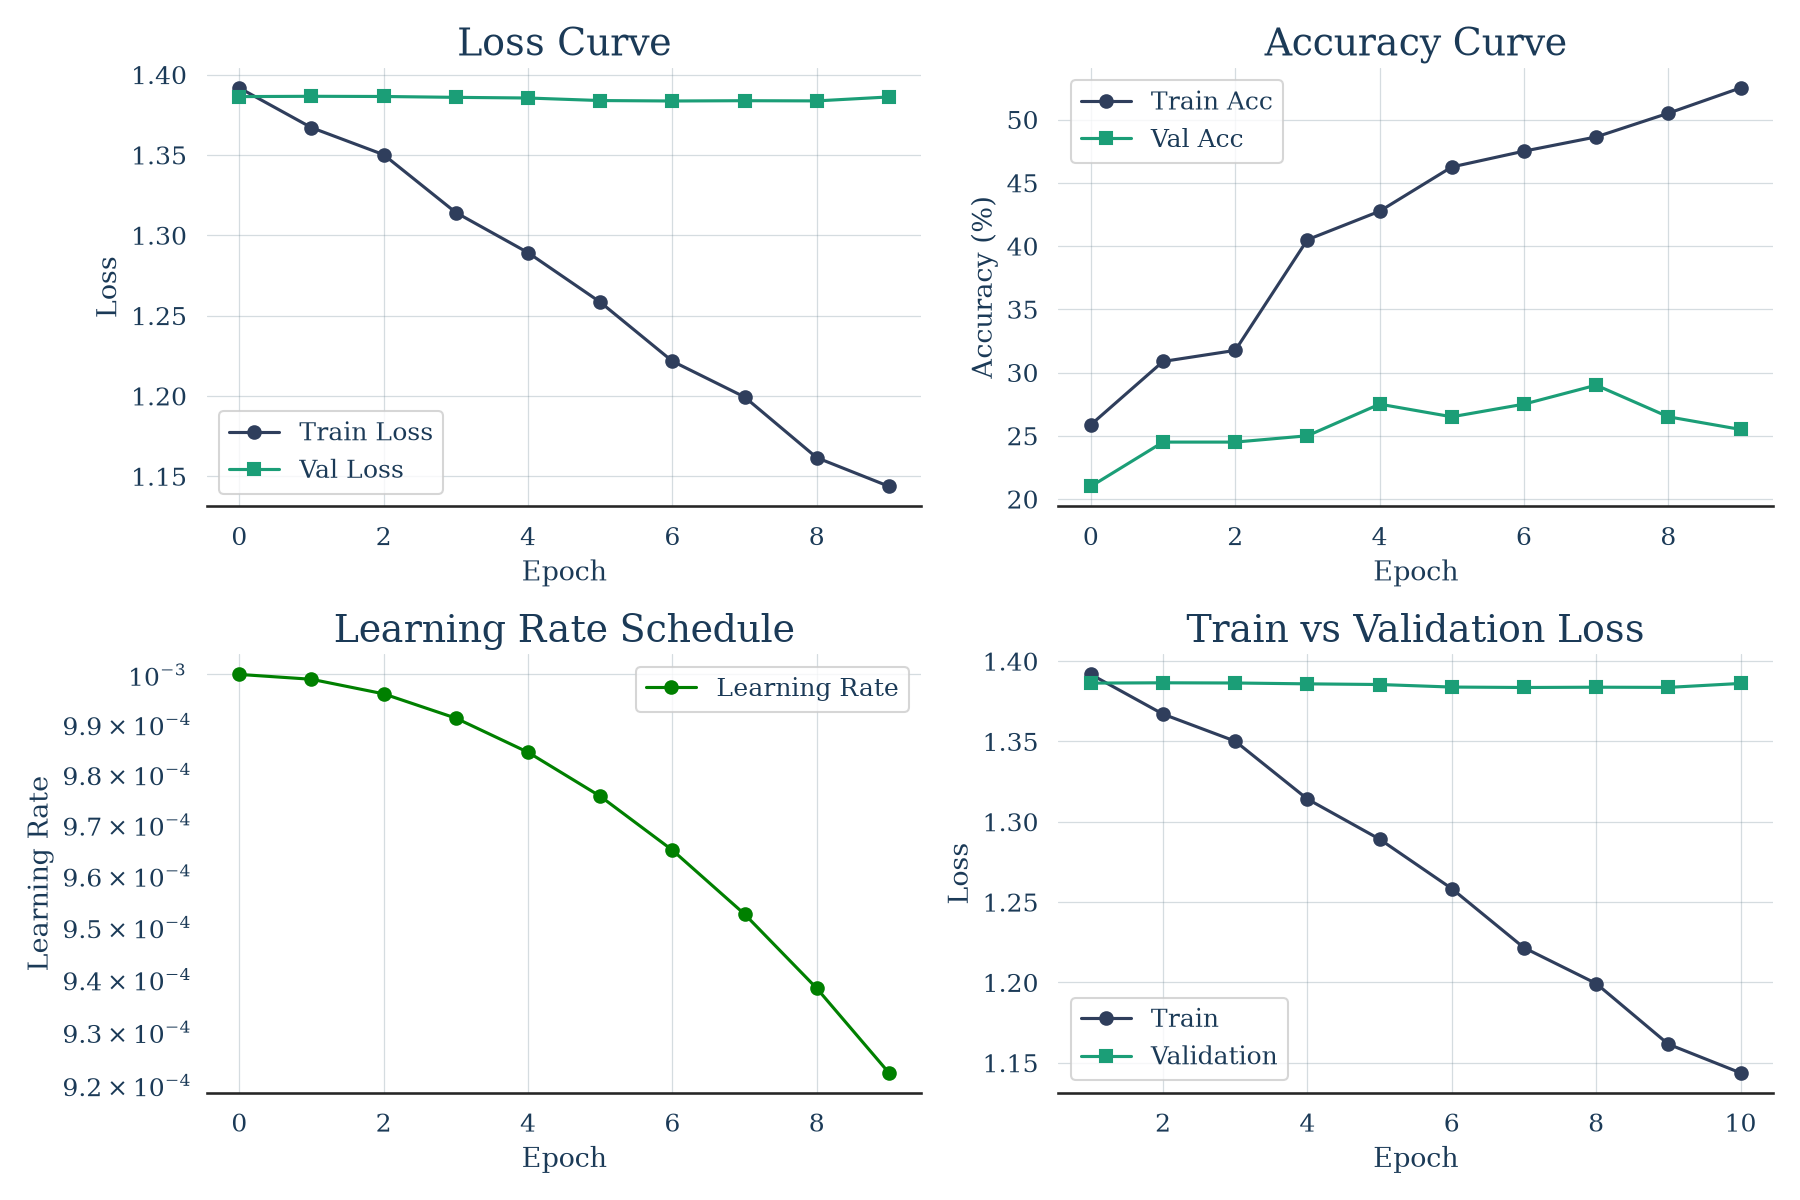
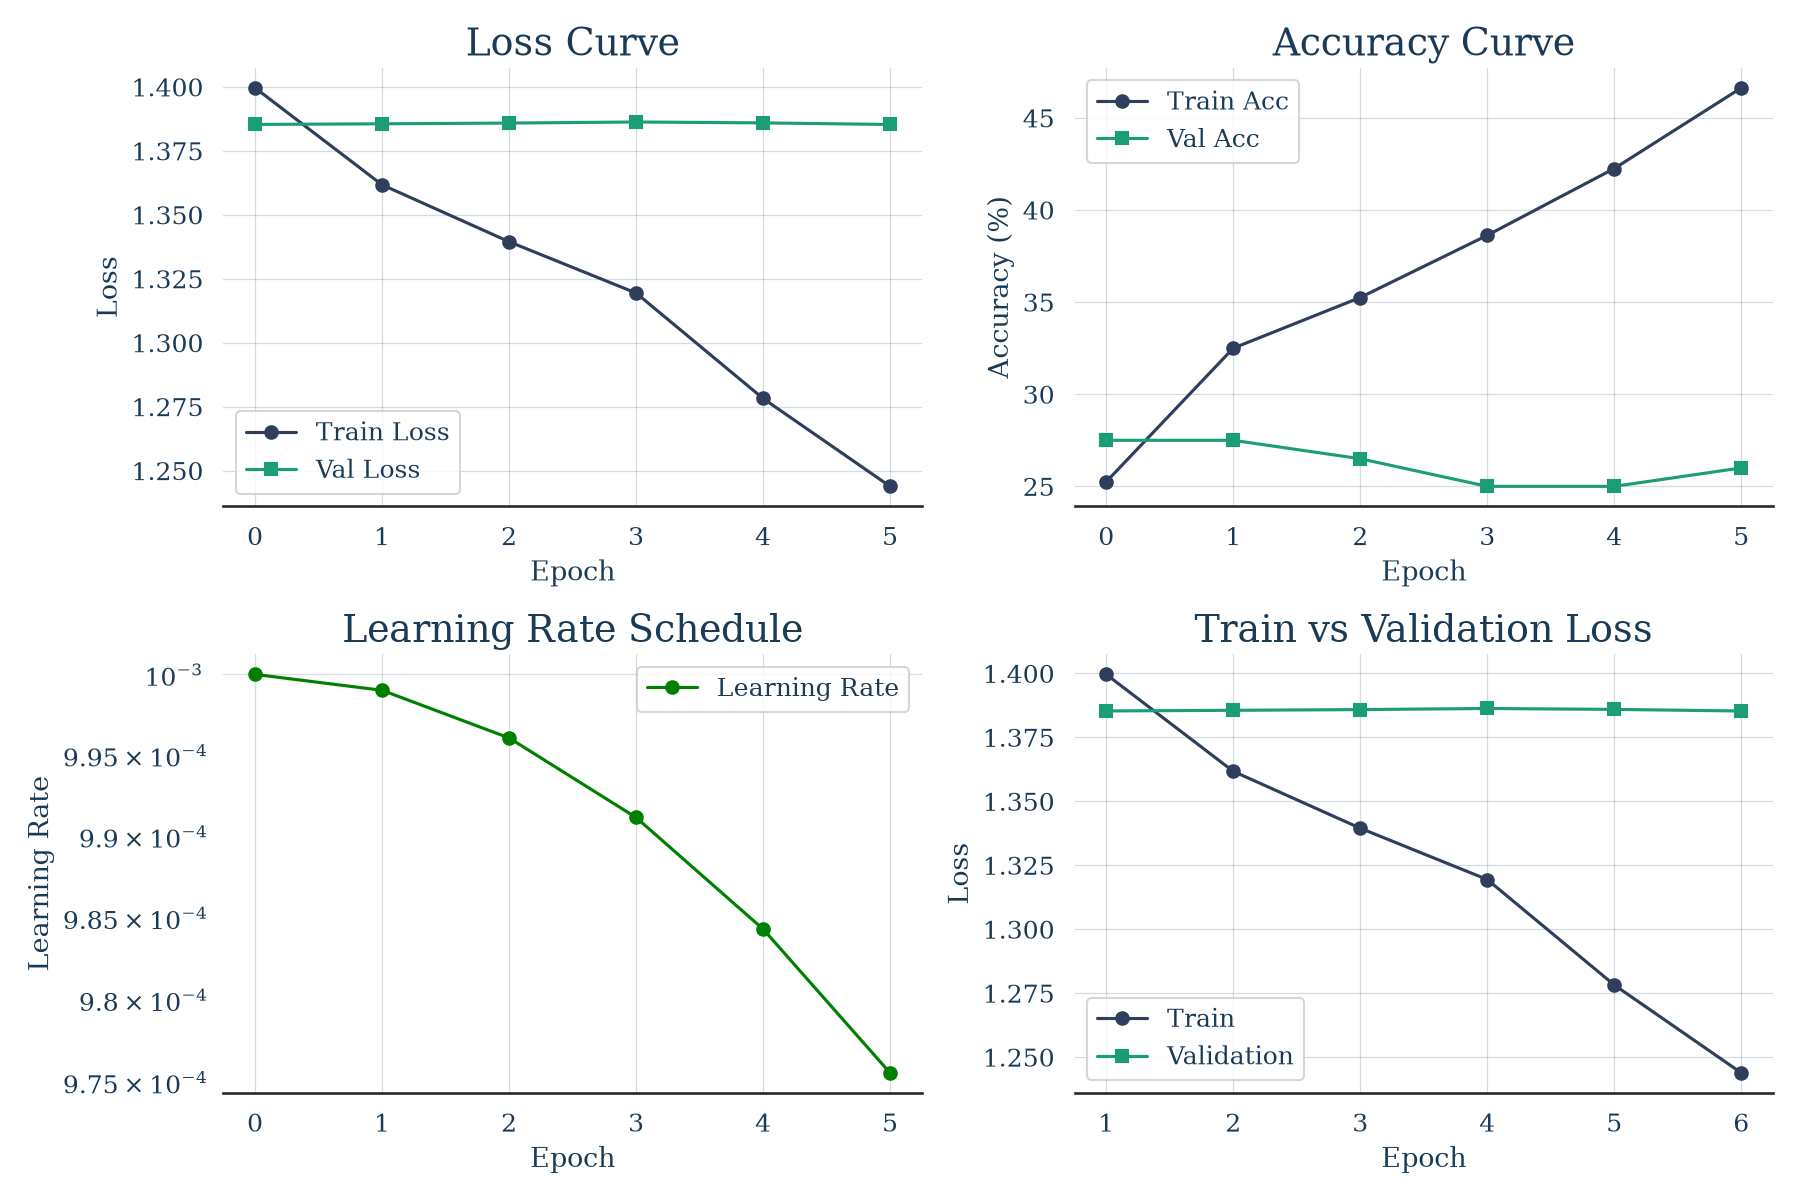
refactor(05_training_loop.py): 完善训练脚本注释与设备选择逻辑
1. 修正张量注释的表述错误，更新设备选择逻辑支持MPS
2. 为损失函数、优化器等组件添加中文注释说明
3. 补充模型输出形状与CrossEntropyLoss使用说明
4. 为评估指标添加详细注释，优化代码可读性
5. 更新EEGClassifier参数传递注释

diff --git a/05_training_loop.py b/05_training_loop.py
@@ -35,8 +35,8 @@ n_times = 1000 # time steps
 n_classes = 4 # 0, 1, 2, 3
 
 # 生成随机数据
-X = torch.randn(n_samples, n_channels, n_times) # (batch, channels, time)
-y = torch.randint(0, n_classes, (n_samples,)) # (batch,)
+X = torch.randn(n_samples, n_channels, n_times) # (samples, channels, time)
+y = torch.randint(0, n_classes, (n_samples,)) # (samples,)
 
 # 划分训练集和验证集
 n_train = int(0.8 * n_samples)
@@ -71,7 +71,8 @@ model = EEGNet(
     F2=16,
     D=2,
     kernel_length=125,
-)
+) # output: (samples, n_classes)
+# braindecode 的 EEGNet 输出的是 softmax 之前的得分（logits）
 
 print(f"模型: {type(model).__name__}")
 print(f"参数量: {sum(p.numel() for p in model.parameters()):,}")
@@ -83,15 +84,18 @@ print("\n3. 损失函数和优化器")
 print("-" * 40)
 
 # 损失函数
-criterion = nn.CrossEntropyLoss()
+# 中文名称：交叉熵损失函数
+criterion = nn.CrossEntropyLoss() 
 print(f"损失函数: {criterion}")
 
 # 优化器
-optimizer = torch.optim.AdamW(model.parameters(), lr=0.001, weight_decay=0.01)
+# 中文名称：AdamW 优化器
+optimizer = torch.optim.AdamW(model.parameters(), lr=0.001, weight_decay=0.01) 
 print(f"优化器: {optimizer}")
 
 # 学习率调度器
-scheduler = torch.optim.lr_scheduler.CosineAnnealingLR(optimizer, T_max=50, eta_min=1e-6)
+# 中文名称：余弦退火学习率调度器
+scheduler = torch.optim.lr_scheduler.CosineAnnealingLR(optimizer, T_max=50, eta_min=1e-6) 
 print(f"学习率调度器: CosineAnnealingLR")
 
 # ============================================================
@@ -113,7 +117,10 @@ def train_epoch(model, loader, criterion, optimizer, device):
         y_batch = y_batch.to(device)
 
         # 前向传播
+        # braindecode 的 EEGNet 输出的是 softmax 之前的得分（logits）
+        # shape: (samples, n_classes)
         outputs = model(X_batch)
+        # PyTorch 的 CrossEntropyLoss 内部已经包含了 log_softmax ，所以它接收的是 logits
         loss = criterion(outputs, y_batch)
 
         # 反向传播
@@ -123,6 +130,7 @@ def train_epoch(model, loader, criterion, optimizer, device):
 
         # 统计
         total_loss += loss.item() * X_batch.size(0)
+        # 丢弃最大值本身（不用），保留最大值的索引，即预测的类别
         _, predicted = outputs.max(1)
         total += y_batch.size(0)
         correct += predicted.eq(y_batch).sum().item()
@@ -164,7 +172,13 @@ print("\n5. 完整训练流程")
 print("-" * 40)
 
 # 设备选择
-device = torch.device("cuda" if torch.cuda.is_available() else "cpu")
+# 设备选择：优先使用 CUDA，其次使用 MPS，最后使用 CPU
+if torch.cuda.is_available():
+    device = torch.device("cuda")
+elif torch.backends.mps.is_available() and torch.backends.mps.is_built():
+    device = torch.device("mps")
+else:
+    device = torch.device("cpu")
 model = model.to(device)
 print(f"使用设备: {device}")
 
@@ -286,6 +300,8 @@ plt.savefig("training_history.png", dpi=150)
 print("训练历史图已保存到: training_history.png")
 plt.close()
 
+
+
 # ============================================================
 # 7. 使用 braindecode 的 EEGClassifier
 # ============================================================
@@ -298,17 +314,18 @@ from braindecode.classifier import EEGClassifier
 # 它封装了训练循环，使用更简洁
 
 # 创建 EEGClassifier
+# <组件名>__<参数名> 用于传递模型参数
 clf = EEGClassifier(
     module=EEGNet,
-    module__n_chans=n_channels,
-    module__n_times=n_times,
-    module__n_outputs=n_classes,
+    module__n_chans=n_channels, # 传给 EEGNet(n_chans=22)
+    module__n_times=n_times, # 传给 EEGNet(n_times=1000)
+    module__n_outputs=n_classes, # 传给 EEGNet(n_outputs=4)
     max_epochs=5,
     batch_size=64,
     lr=0.001,
     device=device,
     optimizer=torch.optim.AdamW,
-    optimizer__weight_decay=0.01,
+    optimizer__weight_decay=0.01, # AdamW(weight_decay=0.01)
     train_split=None,  # 不使用内置验证集划分
     verbose=1,
 )
@@ -338,12 +355,12 @@ print("\n8. 模型评估指标")
 print("-" * 40)
 
 from sklearn.metrics import (
-    accuracy_score,
-    precision_score,
-    recall_score,
-    f1_score,
-    confusion_matrix,
-    classification_report,
+    accuracy_score,      # 准确率：预测正确的样本数占总样本数的比例
+    precision_score,     # 精确率（查准率）：在所有预测为正类的样本中，真正为正类的比例
+    recall_score,        # 召回率（查全率）：在所有真正为正类的样本中，被正确预测为正类的比例
+    f1_score,            # F1 分数：精确率和召回率的调和平均值，综合评估模型性能
+    confusion_matrix,    # 混淆矩阵：展示预测结果与真实标签之间的对应关系
+    classification_report,  # 分类报告：生成包含每个类别精确率、召回率、F1 分数的详细报告
 )
 
 # 使用手动训练的模型进行预测
@@ -357,10 +374,10 @@ with torch.no_grad():
 y_true = y_val.numpy()
 
 # 计算指标
-acc = accuracy_score(y_true, y_pred_manual)
-precision = precision_score(y_true, y_pred_manual, average="macro")
-recall = recall_score(y_true, y_pred_manual, average="macro")
-f1 = f1_score(y_true, y_pred_manual, average="macro")
+acc = accuracy_score(y_true, y_pred_manual)                         # 准确率：预测正确的样本数占总样本数的比例
+precision = precision_score(y_true, y_pred_manual, average="macro") # 精确率（查准率）：在所有预测为正类的样本中，真正为正类的比例
+recall = recall_score(y_true, y_pred_manual, average="macro")       # 召回率（查全率）：在所有真正为正类的样本中，被正确预测为正类的比例
+f1 = f1_score(y_true, y_pred_manual, average="macro")               # F1 分数：精确率和召回率的调和平均值，综合评估模型性能
 
 print(f"准确率 (Accuracy): {acc:.4f}")
 print(f"精确率 (Precision): {precision:.4f}")
@@ -378,7 +395,7 @@ print(cm)
 # 可视化混淆矩阵
 fig, ax = plt.subplots(figsize=(8, 6))
 im = ax.imshow(cm, interpolation="nearest", cmap=plt.cm.Blues)
-ax.figure.colorbar(im, ax=ax)
+ax.figure.colorbar(im, ax=ax) # 添加颜色条
 
 classes = [f"Class {i}" for i in range(n_classes)]
 ax.set(
@@ -395,7 +412,7 @@ plt.setp(ax.get_xticklabels(), rotation=45, ha="right", rotation_mode="anchor")
 
 # 在每个单元格中显示数值
 fmt = "d"
-thresh = cm.max() / 2.0
+thresh = cm.max() / 2.0  # 阈值 = 最大值的一半
 for i in range(cm.shape[0]):
     for j in range(cm.shape[1]):
         ax.text(
